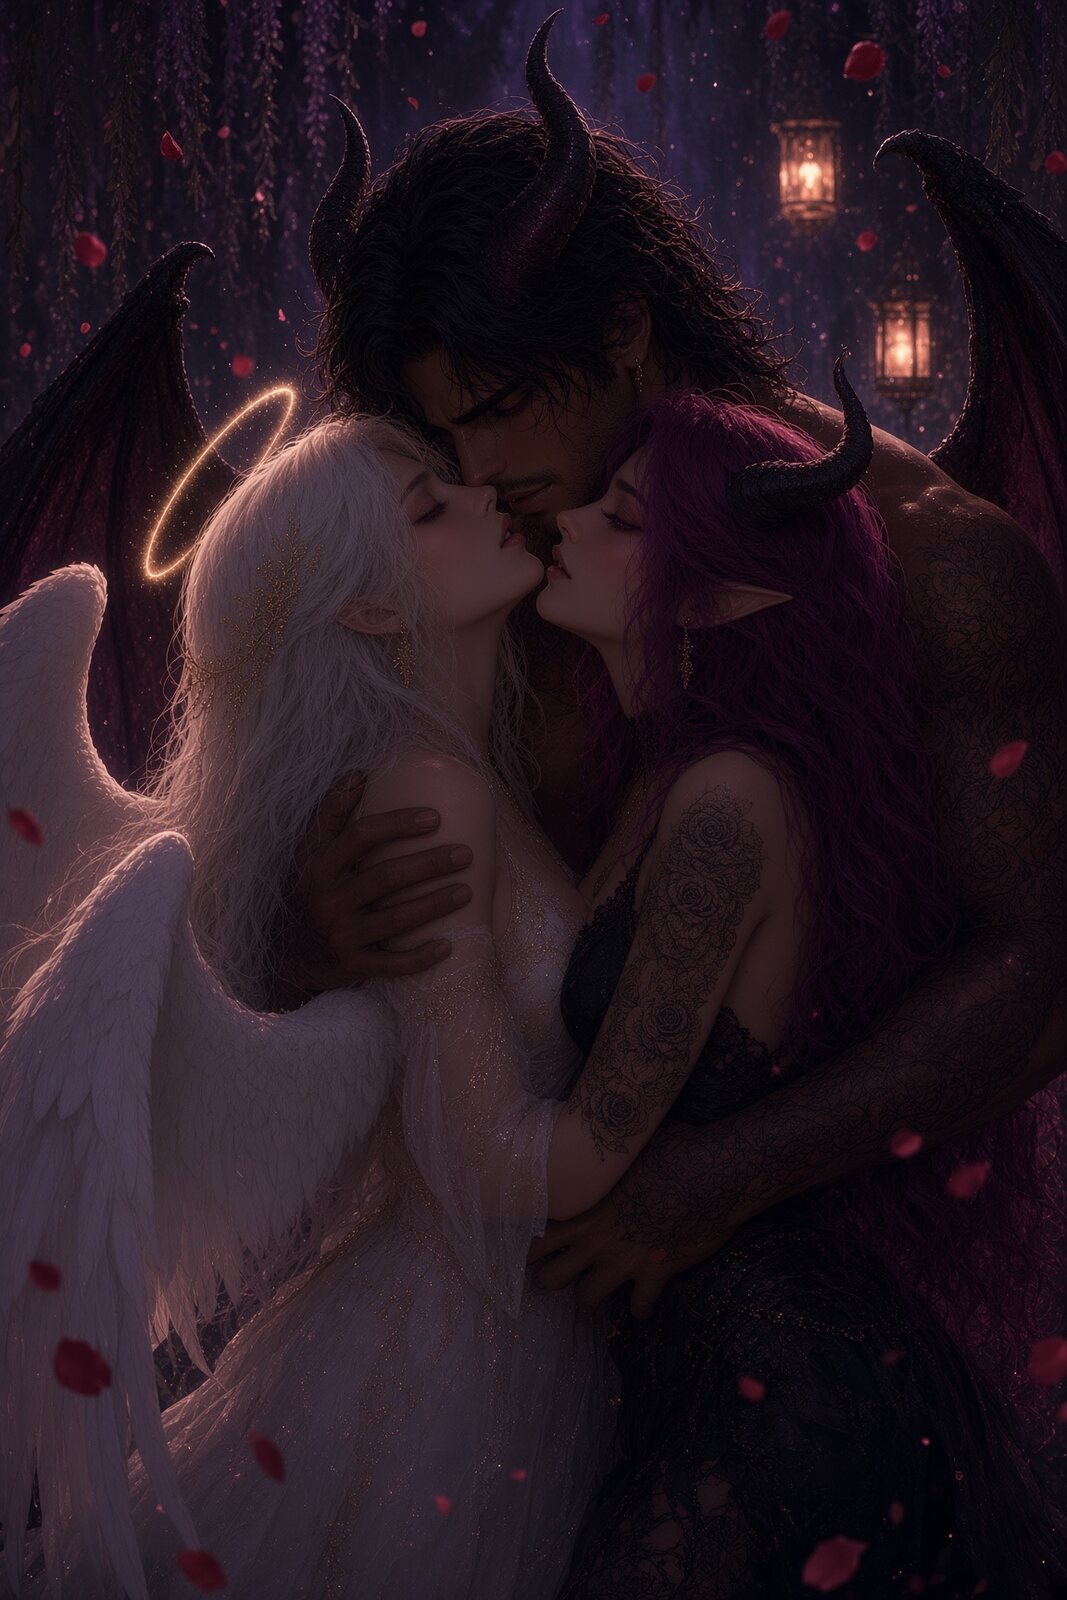
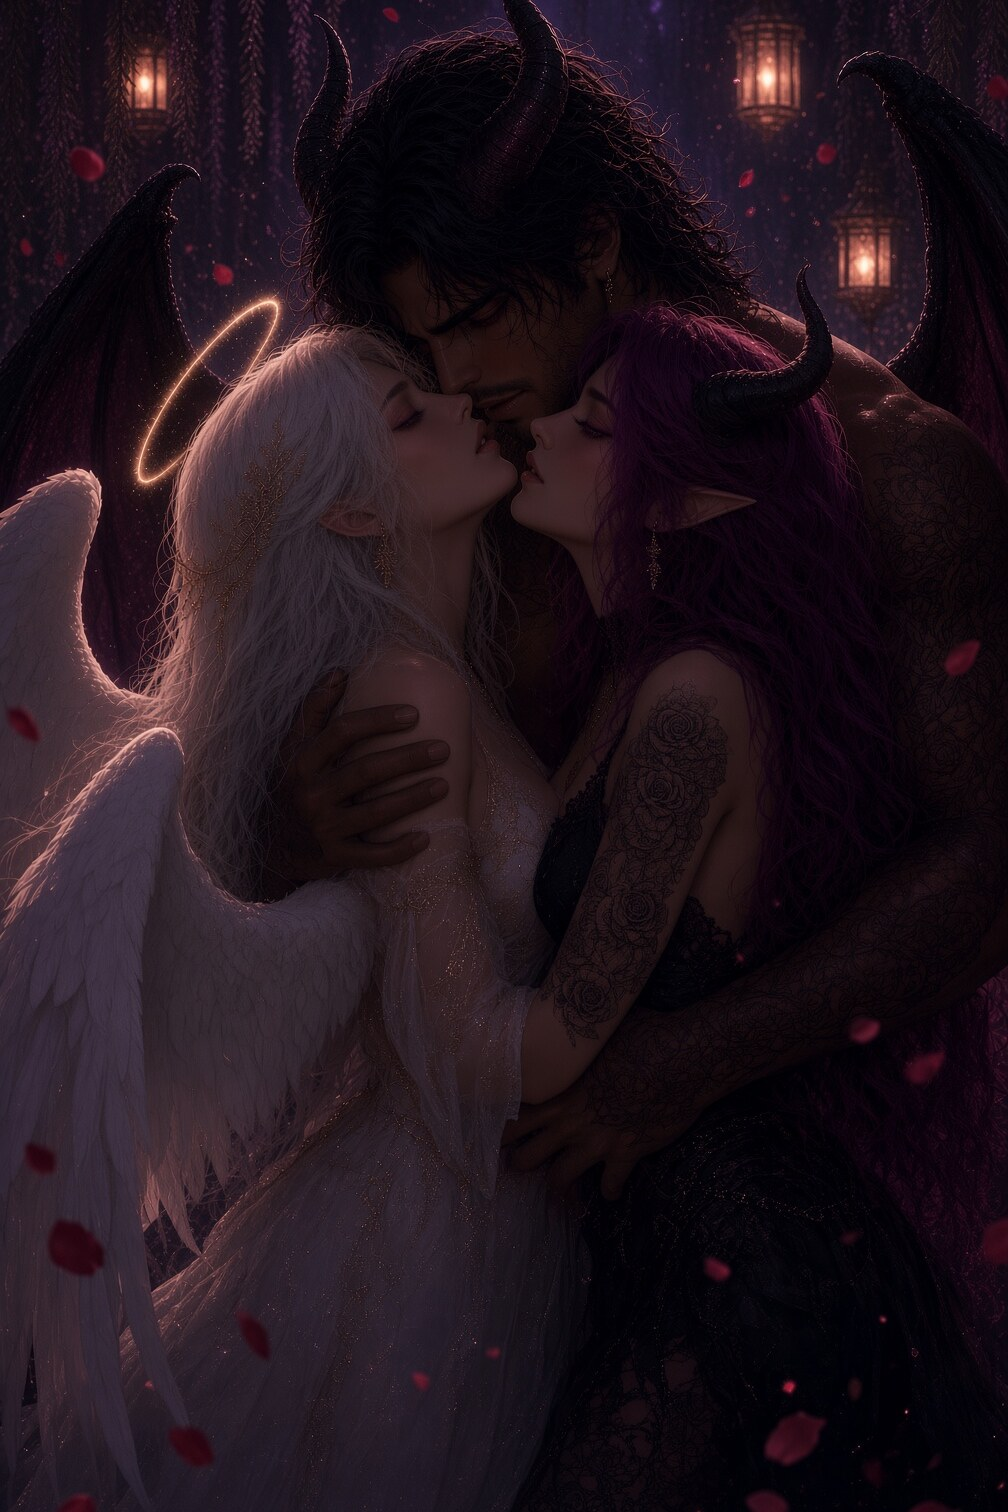
Replace Chapter VI plate
Use WhatWeClaim.png from the Desktop original for What We Claim.

diff --git a/part1/chapter-06.html b/part1/chapter-06.html
@@ -22,7 +22,7 @@
   <div class="bound">
     <main class="spread">
       <figure class="leaf-art">
-        <img src="../images/part1/ch06.jpg" alt="What We Claim" />
+        <img src="../images/part1/ch06.jpg?v=2" alt="What We Claim" />
       </figure>
       <article class="leaf-text">
         <p class="roman">Chapter VI</p>
